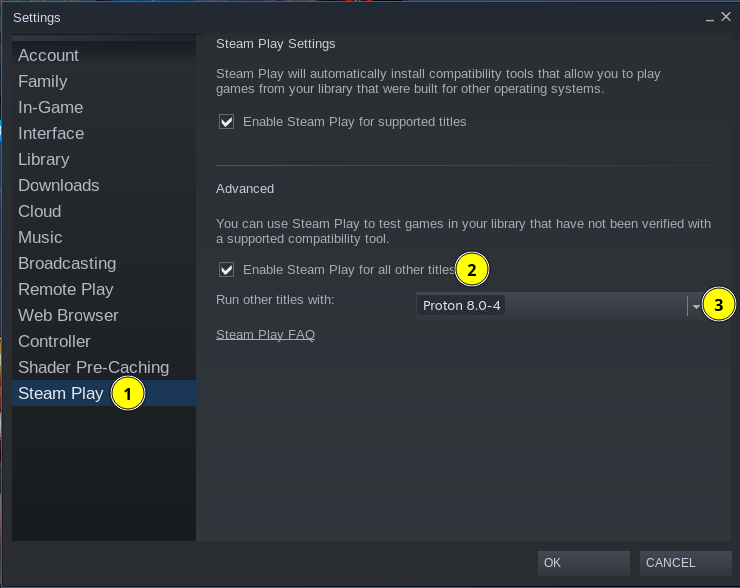
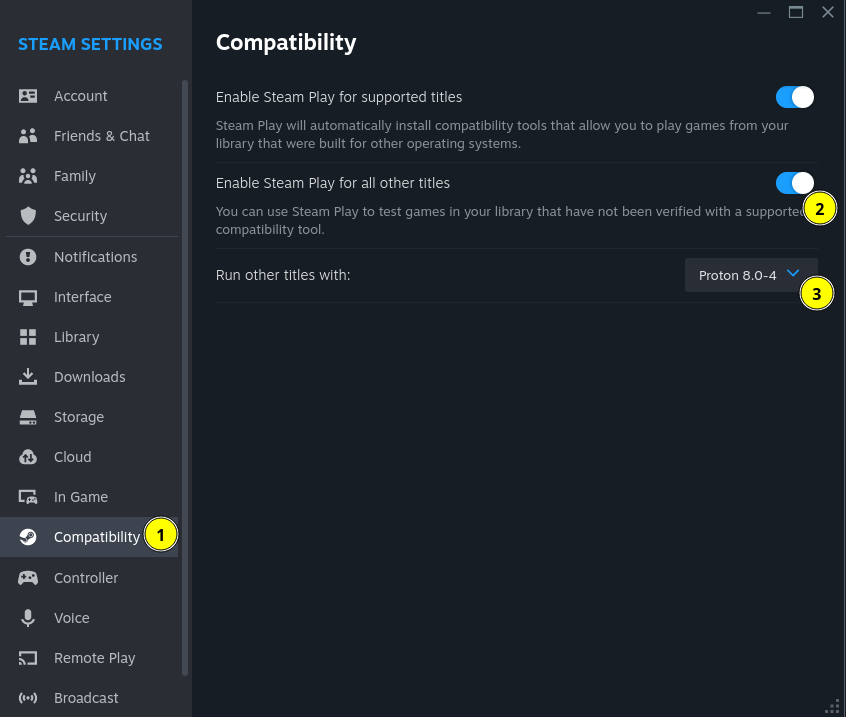
Update Linux screenshots

diff --git a/linux/index.html b/linux/index.html
@@ -222,8 +222,8 @@
             <li>Start Steam and log in.</li>
             <li>Open the “Steam” menu (1), then “Settings” (2).</li>
             <a href="./1.png"><img src="./1.png" alt="Screenshot of the Steam client with the “Steam” menu open, and the “Settings” entry highlighted"></a>
-            <li>Go to the “Steam Play” section (1) and check the “Enable Steam Play for all other titles” box (2). You can leave the “Run other titles with” dropdown list (3) to its default value but <strong>make sure it is at least Proton 8.0-4</strong> (earlier versions up to 8.0-3c won't work — even though they used to work in the past).</li>
-            <a href="./2.png"><img src="./2.png" alt="Screenshot of the Steam client “Settings” window, on the “Steam Play” tab, with the “Enable Steam Play for all other titles” box checked"></a>
+            <li>Go to the “Compatibility” section (1) and check the “Enable Steam Play for all other titles” box (2). You can leave the “Run other titles with” dropdown list (3) to its default value but <strong>make sure it is at least Proton 8.0-4</strong> (earlier versions up to 8.0-3c won't work — even though they used to work in the past).</li>
+            <a href="./2.png"><img src="./2.png" alt="Screenshot of the Steam client “Settings” window, on the “Compatibility” tab, with the “Enable Steam Play for all other titles” box checked"></a>
             <div class="warning">
               If you have an old GPU which doesn't support Vulkan 1.3, you'll instead need to either:<ul>
                 <li>try <a href="https://github.com/ArkanosisNet/aoe2.arkanosis.net/releases/tag/proton-7.0-6e-aoe2-wa1">this custom build of the older Proton 7.0-6</a> (it may crash at first launch — just launch the game again), or</li>
@@ -232,7 +232,7 @@
             </div>
             <li>Now, AoE2:DE should be available in your Steam library as it would be if you were on Windows. Install the game.</li>
             <li>If you don't want the introduction video, go to your “Library” (1), right click “Age of Empires II: Definitive Edition” (2), click “Properties” (3), then “General“ (4) and type <tt>SKIPINTRO</tt> in the “Launch options” (5).</li>
-            <a href="./3.png"><img src="./3.png" alt="Screenshot of the Steam client “Settings” window, on the “Steam Play” tab, with the “Enable Steam Play for all other titles” box checked"></a>
+            <a href="./3.png"><img src="./3.png" alt="Screenshot of the Steam client “Properties” window for “Age of Empires II: Definitive Edition”, on the “General” tab, with the “SKIPINTRO” launch option"></a>
             <li>Start the game.</li>
           </ol>
           <p>At this point, the game should work fine <em>in single player mode</em>. If you want to play <em><u>online multiplayer</u></em>, however, keep on reading.</p>
@@ -391,7 +391,7 @@
             <p>To use WineD3D and OpenGL:</p>
             <ol>
               <li>Go to your “Library” (1), right click “Age of Empires II: Definitive Edition” (2), click “Properties” (3), then “General“ (4) and type <tt>PROTON_USE_WINED3D=1 %command%</tt> in the “Launch options” (5).</li>
-              <a href="./3.png"><img src="./3.png" alt="Screenshot of the Steam client “Settings” window, on the “Steam Play” tab, with the “Enable Steam Play for all other titles” box checked"></a>
+              <a href="./4.png"><img src="./4.png" alt="Screenshot of the Steam client “Properties” window for “Age of Empires II: Definitive Edition”, on the “General” tab, with the “PROTON_USE_WINED3D=1 %command%” launch option"></a>
               <li>Start the game.</li>
             </ol>
           </section>
@@ -570,7 +570,7 @@
         <p>Thanks everyone, GL HF!</p>
       </section>
       <p class="version">
-        Last update (<a href="https://github.com/ArkanosisNet/aoe2.arkanosis.net/commits/master">changelog</a>) on 2023-10-07 (<a href="https://www.ageofempires.com/news/age-of-empires-ii-definitive-edition-update-93001/">RoR 94056</a>)
+        Last update (<a href="https://github.com/ArkanosisNet/aoe2.arkanosis.net/commits/master">changelog</a>) on 2023-10-11 (<a href="https://www.ageofempires.com/news/age-of-empires-ii-definitive-edition-update-93001/">RoR 94056</a>)
       </p>
     </main>
     <footer>
